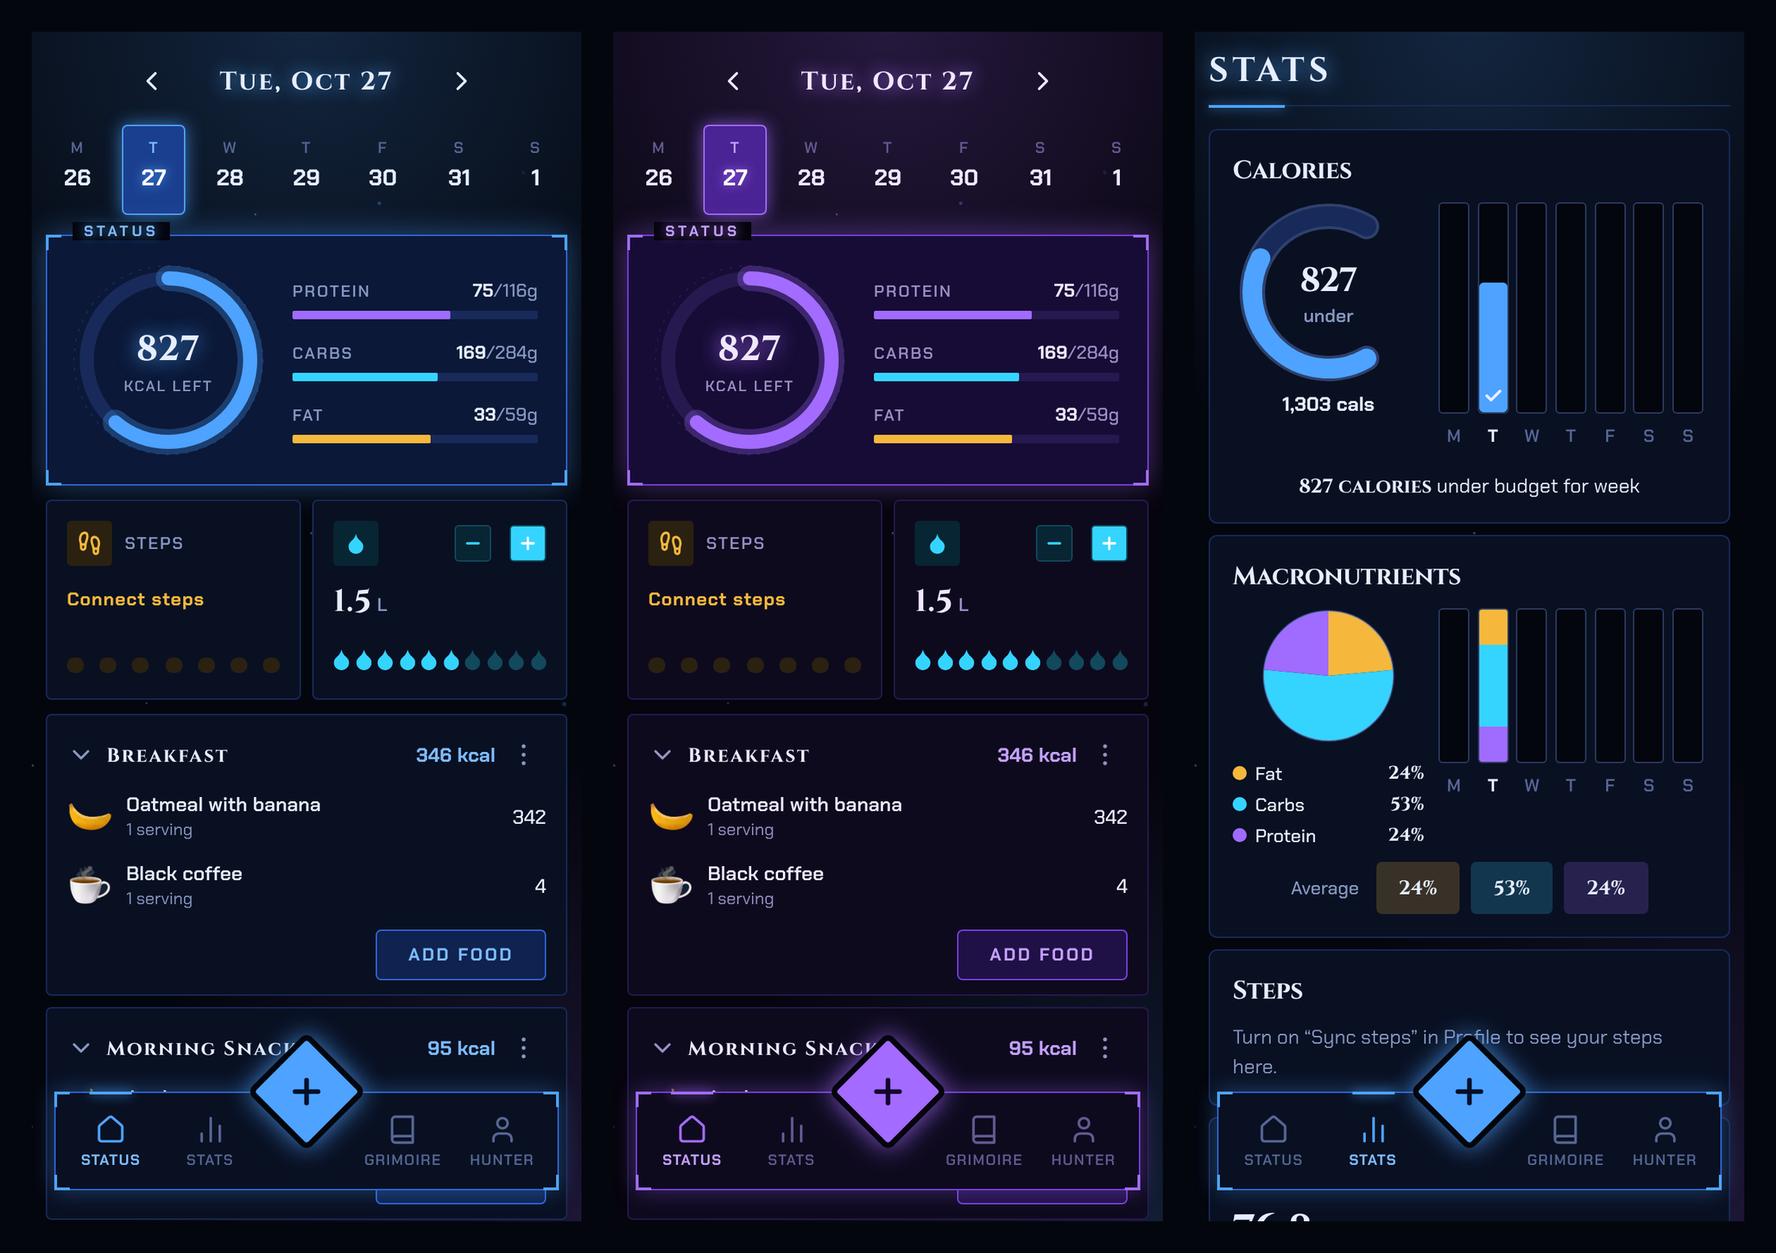
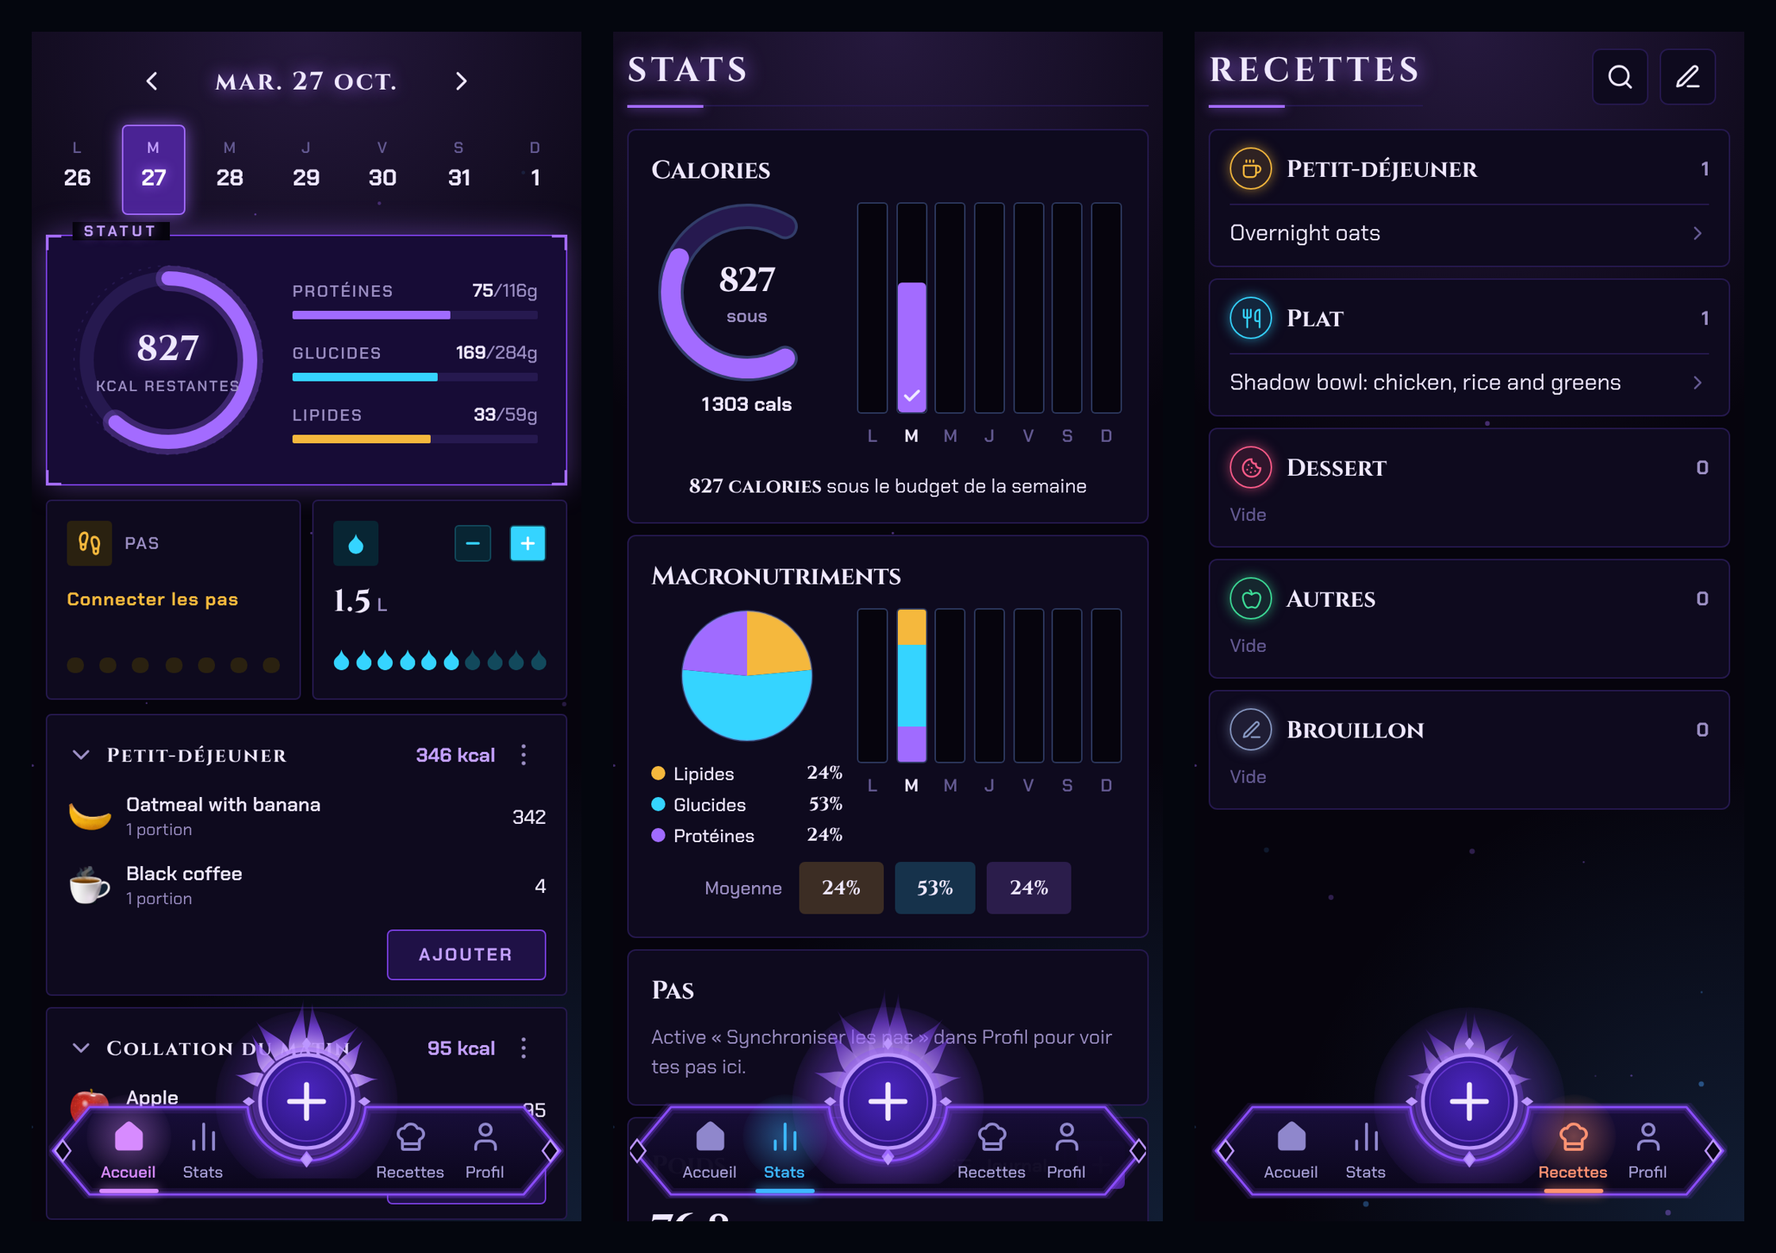
Redesign bottom bar from the design sheet
- Pointed bar with a round notch, violet outline and tip ornaments
- Per-tab accent colours, glow and underline; chef-hat icon for recipes
- Round violet gate button with pulsing aura, flames and pressed state
- Restore Dashboard/Stats/Recipes/Profile labels; Shadow theme by default

Claude-Session: https://claude.ai/code/session_01Ww3m4KYLXCWGYCo8WrB84K

diff --git a/src/ui.tsx b/src/ui.tsx
@@ -1,7 +1,7 @@
 import React, { useEffect, useRef, useState } from 'react';
-import { Keyboard, Platform, Pressable, ScrollView, StyleSheet, useWindowDimensions, View } from 'react-native';
+import { Animated, Easing, Keyboard, Platform, Pressable, ScrollView, StyleSheet, useWindowDimensions, View } from 'react-native';
 import { Text } from './i18n';
-import Svg, { Circle, Defs, Path, RadialGradient, Rect, Stop } from 'react-native-svg';
+import Svg, { Circle, Defs, G, LinearGradient, Path, RadialGradient, Rect, Stop } from 'react-native-svg';
 import { useSafeAreaInsets } from 'react-native-safe-area-context';
 import { alpha, c, f, glow, onTheme, r, textGlow } from './theme';
 import type { MealKey } from './domain';
@@ -34,6 +34,7 @@ export const P = {
   zap: ['M4 14a1 1 0 0 1-.78-1.63l9.9-10.2a.5.5 0 0 1 .86.46l-1.92 6.02A1 1 0 0 0 13 10h7a1 1 0 0 1 .78 1.63l-9.9 10.2a.5.5 0 0 1-.86-.46l1.92-6.02A1 1 0 0 0 11 14z'],
   camera: ['M14.5 4h-5L7 7H4a2 2 0 0 0-2 2v9a2 2 0 0 0 2 2h16a2 2 0 0 0 2-2V9a2 2 0 0 0-2-2h-3l-2.5-3z', 'M12 13m-3 0a3 3 0 1 0 6 0a3 3 0 1 0-6 0'],
   book: ['M4 19.5v-15A2.5 2.5 0 0 1 6.5 2H20v20H6.5a2.5 2.5 0 0 1 0-5H20'],
+  chef: ['M17 21a1 1 0 0 0 1-1v-5.35c0-.457.316-.844.727-1.041a4 4 0 0 0-2.134-7.589 5 5 0 0 0-9.186 0 4 4 0 0 0-2.134 7.588c.411.198.727.585.727 1.041V20a1 1 0 0 0 1 1Z', 'M6 17h12'],
   more: ['M12 5.5v.01', 'M12 12v.01', 'M12 18.5v.01'],
   trash: ['M3 6h18', 'M8 6V4a2 2 0 0 1 2-2h4a2 2 0 0 1 2 2v2', 'M19 6l-1 14a2 2 0 0 1-2 2H8a2 2 0 0 1-2-2L5 6', 'M10 11v6', 'M14 11v6'],
   copy: ['M9 9h10a2 2 0 0 1 2 2v9a2 2 0 0 1-2 2H9a2 2 0 0 1-2-2v-9a2 2 0 0 1 2-2z', 'M5 15H4a2 2 0 0 1-2-2V4a2 2 0 0 1 2-2h9a2 2 0 0 1 2 2v1'],
@@ -162,33 +163,192 @@ export function Title({ children }: { children: string }) {
   );
 }
 
-const LABELS: Record<Tab, string> = { home: 'Status', stats: 'Stats', recipes: 'Grimoire', profile: 'Hunter' };
+/* ---------- Bottom bar ----------
+ * Drawn from the design sheet: a dark bar with pointed ends and a round notch for the "+" gate, violet outline,
+ * one accent colour per tab, and a violet gate button with an aura and licking flames. The bar keeps its own
+ * violet palette in both themes. */
+const NAV = {
+  line: '#8B4DFF',
+  lineSoft: '#6A3BE0',
+  fillTop: '#180E3A',
+  fillBot: '#0A0619',
+  idle: '#8F87CC',
+  idleLabel: '#A9A1D8',
+  btnIn: '#4A25BE',
+  btnOut: '#190A52',
+  ring: '#BC96FF',
+  plus: '#F3E9FF',
+};
+const TAB_STYLE: Record<Tab, { d: string[]; color: string; fill?: boolean }> = {
+  home: { d: P.home, color: '#D78BFF', fill: true },
+  stats: { d: P.stats, color: '#3DB8FF' },
+  recipes: { d: P.chef, color: '#FF9272' },
+  profile: { d: P.user, color: '#2CE6C4' },
+};
+const LABELS: Record<Tab, string> = { home: 'Dashboard', stats: 'Stats', recipes: 'Recipes', profile: 'Profile' };
+
+const BAR_H = 68; // the bar itself
+const OVER = 92; // room above the bar for the gate button, its aura and its flames
+const MARGIN = 12;
+const BTN_R = 33; // gate button radius
+const CANVAS = 140; // square canvas holding the aura / flames, centred on the button
+const CC = { x: 70, y: 86 }; // button centre inside that canvas
+
+function barPath(w: number) {
+  const p = 3, tip = 26, h = BAR_H, cx = w / 2, nr = BTN_R + 9;
+  const dx = Math.sqrt(nr * nr - 16); // the notch is a circle centred 4px above the top edge
+  return `M ${p + tip} ${p} L ${cx - dx} ${p} A ${nr} ${nr} 0 0 0 ${cx + dx} ${p} L ${w - p - tip} ${p} L ${w - p} ${h / 2} L ${w - p - tip} ${h - p} L ${p + tip} ${h - p} L ${p} ${h / 2} Z`;
+}
+const diamond = (x: number, y: number, rx: number, ry: number) => `M ${x} ${y - ry} L ${x + rx} ${y} L ${x} ${y + ry} L ${x - rx} ${y} Z`;
+
+function BarShape({ w }: { w: number }) {
+  const d = barPath(w);
+  return (
+    <Svg width={w} height={BAR_H} style={{ position: 'absolute', left: 0, top: OVER }}>
+      <Defs>
+        <LinearGradient id="barFill" x1="0" y1="0" x2="0" y2="1">
+          <Stop offset="0" stopColor={NAV.fillTop} stopOpacity={1} />
+          <Stop offset="1" stopColor={NAV.fillBot} stopOpacity={1} />
+        </LinearGradient>
+      </Defs>
+      <Path d={d} fill="url(#barFill)" />
+      {/* soft outer glow, then the crisp outline */}
+      <Path d={d} fill="none" stroke={NAV.line} strokeOpacity={0.12} strokeWidth={9} strokeLinejoin="round" />
+      <Path d={d} fill="none" stroke={NAV.line} strokeOpacity={0.28} strokeWidth={4.5} strokeLinejoin="round" />
+      <Path d={d} fill="none" stroke={NAV.line} strokeWidth={1.6} strokeLinejoin="round" />
+      {/* ornaments: the two tips and the foot of the notch */}
+      <Path d={diamond(10, BAR_H / 2, 5.5, 7.5)} fill={NAV.fillBot} stroke={NAV.ring} strokeWidth={1.4} />
+      <Path d={diamond(w - 10, BAR_H / 2, 5.5, 7.5)} fill={NAV.fillBot} stroke={NAV.ring} strokeWidth={1.4} />
+      <Path d={diamond(w / 2, 3 + BTN_R + 9 - 4 - 1, 4.5, 6)} fill={NAV.ring} />
+    </Svg>
+  );
+}
+
+function TabItem({ t, on, onPress }: { t: Tab; on: boolean; onPress: () => void }) {
+  const st = TAB_STYLE[t];
+  const col = on ? st.color : NAV.idle;
+  return (
+    <Pressable style={({ pressed }) => [s.tab, pressed && { opacity: 0.65 }]} onPress={onPress} hitSlop={4} accessibilityRole="button" accessibilityState={{ selected: on }} accessibilityLabel={LABELS[t]}>
+      <View style={s.tabIcon}>
+        {on && (
+          <Svg width={64} height={64} style={{ position: 'absolute', top: -15, left: 0 }} pointerEvents="none">
+            <Defs>
+              <RadialGradient id={`tg_${t}`} cx="32" cy="32" rx="30" ry="30" fx="32" fy="32" gradientUnits="userSpaceOnUse">
+                <Stop offset="0" stopColor={st.color} stopOpacity={0.4} />
+                <Stop offset="1" stopColor={st.color} stopOpacity={0} />
+              </RadialGradient>
+            </Defs>
+            <Circle cx={32} cy={32} r={30} fill={`url(#tg_${t})`} />
+          </Svg>
+        )}
+        <Icon d={st.d} size={24} color={col} fill={st.fill ? col : 'none'} sw={st.fill ? 1.6 : 2.1} />
+      </View>
+      <Text style={[s.tabLabel, { color: on ? st.color : NAV.idleLabel }, on && { fontFamily: f.semi }]}>{LABELS[t]}</Text>
+      <View style={[s.tabBar, { backgroundColor: st.color, opacity: on ? 1 : 0, ...glow(st.color, 8, 0.9) }]} />
+    </Pressable>
+  );
+}
+
+/** One flame tongue, drawn upwards from the origin. */
+const tongue = (w: number, h: number, bend: number) =>
+  `M ${-w} 0 C ${-w * 1.15} ${-h * 0.4} ${-w * 0.1 + bend} ${-h * 0.55} ${w * 0.2 + bend * 1.6} ${-h} C ${w * 0.15 + bend} ${-h * 0.6} ${w * 1.2} ${-h * 0.42} ${w} 0 Z`;
+const FLAMES = [
+  { a: -64, w: 4.5, h: 17, b: -3 }, { a: -46, w: 5, h: 24, b: 4 }, { a: -27, w: 5.5, h: 30, b: -4 }, { a: -9, w: 6, h: 36, b: 5 },
+  { a: 9, w: 6, h: 33, b: -5 }, { a: 27, w: 5.5, h: 27, b: 4 }, { a: 46, w: 5, h: 22, b: -3 }, { a: 65, w: 4.5, h: 16, b: 3 },
+];
+
+/** The violet gate: aura, flames, ring, "+" and the four compass diamonds. Pressed = shrinks and dims. */
+function GateButton({ onPress }: { onPress: () => void }) {
+  const pulse = React.useRef(new Animated.Value(0)).current;
+  const flick = React.useRef(new Animated.Value(0)).current;
+  const press = React.useRef(new Animated.Value(0)).current;
+  useEffect(() => {
+    const mk = (v: Animated.Value, ms: number) => Animated.loop(Animated.sequence([
+      Animated.timing(v, { toValue: 1, duration: ms, easing: Easing.inOut(Easing.sin), useNativeDriver: true }),
+      Animated.timing(v, { toValue: 0, duration: ms, easing: Easing.inOut(Easing.sin), useNativeDriver: true }),
+    ]));
+    const a = mk(pulse, 1700), b = mk(flick, 430);
+    a.start(); b.start();
+    return () => { a.stop(); b.stop(); };
+  }, [pulse, flick]);
+  const to = (v: number) => Animated.timing(press, { toValue: v, duration: 90, easing: Easing.out(Easing.quad), useNativeDriver: true }).start();
+  const auraScale = pulse.interpolate({ inputRange: [0, 1], outputRange: [1, 1.1] });
+  const auraOp = pulse.interpolate({ inputRange: [0, 1], outputRange: [0.7, 1] });
+  const flameScale = flick.interpolate({ inputRange: [0, 1], outputRange: [0.93, 1.07] });
+  const flameOp = Animated.multiply(flick.interpolate({ inputRange: [0, 1], outputRange: [0.72, 1] }), press.interpolate({ inputRange: [0, 1], outputRange: [1, 0.35] }));
+  const btnScale = press.interpolate({ inputRange: [0, 1], outputRange: [1, 0.92] });
+  const btnOp = press.interpolate({ inputRange: [0, 1], outputRange: [1, 0.85] });
+  const layer = { position: 'absolute' as const, left: BTN_R - CC.x, top: BTN_R - CC.y, width: CANVAS, height: CANVAS };
+  return (
+    <Pressable style={s.gate} onPress={onPress} onPressIn={() => to(1)} onPressOut={() => to(0)} accessibilityRole="button" accessibilityLabel="Add">
+      <Animated.View pointerEvents="none" style={[layer, { opacity: auraOp, transform: [{ scale: auraScale }] }]}>
+        <Svg width={CANVAS} height={CANVAS}>
+          <Defs>
+            <RadialGradient id="aura" cx={CC.x} cy={CC.y} rx={50} ry={50} fx={CC.x} fy={CC.y} gradientUnits="userSpaceOnUse">
+              <Stop offset="0.45" stopColor="#8B4DFF" stopOpacity={0.42} />
+              <Stop offset="1" stopColor="#8B4DFF" stopOpacity={0} />
+            </RadialGradient>
+          </Defs>
+          <Circle cx={CC.x} cy={CC.y} r={50} fill="url(#aura)" />
+        </Svg>
+      </Animated.View>
+      <Animated.View pointerEvents="none" style={[layer, { opacity: flameOp, transform: [{ scale: flameScale }] }]}>
+        <Svg width={CANVAS} height={CANVAS}>
+          <Defs>
+            <LinearGradient id="flame" gradientUnits="userSpaceOnUse" x1="0" y1="0" x2="0" y2="-38">
+              <Stop offset="0" stopColor="#D6B4FF" stopOpacity={0.95} />
+              <Stop offset="0.45" stopColor="#8B4DFF" stopOpacity={0.7} />
+              <Stop offset="1" stopColor="#4B1FB0" stopOpacity={0} />
+            </LinearGradient>
+          </Defs>
+          {FLAMES.map((fl, i) => {
+            const r = (fl.a * Math.PI) / 180, base = BTN_R + 1;
+            return (
+              <G key={i} transform={`translate(${CC.x + Math.sin(r) * base} ${CC.y - Math.cos(r) * base}) rotate(${fl.a})`}>
+                <Path d={tongue(fl.w, fl.h, fl.b)} fill="url(#flame)" />
+              </G>
+            );
+          })}
+        </Svg>
+      </Animated.View>
+      <Animated.View pointerEvents="none" style={[layer, { opacity: btnOp, transform: [{ scale: btnScale }] }]}>
+        <Svg width={CANVAS} height={CANVAS}>
+          <Defs>
+            <RadialGradient id="gate" cx={CC.x} cy={CC.y - 6} rx={BTN_R} ry={BTN_R} fx={CC.x} fy={CC.y - 8} gradientUnits="userSpaceOnUse">
+              <Stop offset="0" stopColor={NAV.btnIn} />
+              <Stop offset="1" stopColor={NAV.btnOut} />
+            </RadialGradient>
+          </Defs>
+          <Circle cx={CC.x} cy={CC.y} r={BTN_R + 3} fill="none" stroke={NAV.line} strokeOpacity={0.3} strokeWidth={5} />
+          <Circle cx={CC.x} cy={CC.y} r={BTN_R} fill="url(#gate)" stroke={NAV.ring} strokeWidth={2.6} />
+          <Circle cx={CC.x} cy={CC.y} r={BTN_R - 5} fill="none" stroke={NAV.line} strokeOpacity={0.55} strokeWidth={1} />
+          <Path d={`M ${CC.x - 12} ${CC.y} H ${CC.x + 12} M ${CC.x} ${CC.y - 12} V ${CC.y + 12}`} stroke={NAV.plus} strokeWidth={3.6} strokeLinecap="round" />
+          {[[0, -1], [1, 0], [0, 1], [-1, 0]].map(([ux, uy], i) => (
+            <Path key={i} d={diamond(CC.x + ux * (BTN_R + 8), CC.y + uy * (BTN_R + 8), ux === 0 ? 3.2 : 4.4, uy === 0 ? 3.2 : 4.4)} fill={NAV.ring} />
+          ))}
+        </Svg>
+      </Animated.View>
+    </Pressable>
+  );
+}
 
 export function BottomNav({ tab, onTab, onAdd }: { tab: Tab; onTab: (t: Tab) => void; onAdd: () => void }) {
   const { bottom } = useSafeAreaInsets();
-  const Item = ({ t, d }: { t: Tab; d: string[] }) => {
-    const on = tab === t;
-    return (
-      <Pressable style={s.tab} onPress={() => onTab(t)} hitSlop={4} accessibilityRole="button" accessibilityLabel={LABELS[t]}>
-        {on && <View style={s.tabBar} />}
-        <Icon d={d} size={22} color={on ? c.glow : c.soft} />
-        <Text style={[s.tabLabel, on && { color: c.glowText, fontFamily: f.bold }]}>{LABELS[t]}</Text>
-      </Pressable>
-    );
-  };
+  const { width } = useWindowDimensions();
+  const w = width - MARGIN * 2;
   return (
-    <View style={[s.navWrap, { bottom: Math.max(bottom, 12) + 10 }]} pointerEvents="box-none">
-      <View style={s.nav}>
-        <Item t="home" d={P.home} />
-        <Item t="stats" d={P.stats} />
-        <View style={{ width: 64 }} />
-        <Item t="recipes" d={P.book} />
-        <Item t="profile" d={P.user} />
-        <Corners />
+    <View style={[s.navWrap, { bottom: Math.max(bottom, 12) + 4, left: MARGIN, right: MARGIN }]} pointerEvents="box-none">
+      <BarShape w={w} />
+      <View style={s.tabs} pointerEvents="box-none">
+        <TabItem t="home" on={tab === 'home'} onPress={() => onTab('home')} />
+        <TabItem t="stats" on={tab === 'stats'} onPress={() => onTab('stats')} />
+        <View style={{ width: 2 * (BTN_R + 14) }} />
+        <TabItem t="recipes" on={tab === 'recipes'} onPress={() => onTab('recipes')} />
+        <TabItem t="profile" on={tab === 'profile'} onPress={() => onTab('profile')} />
       </View>
-      <Pressable style={s.scan} onPress={onAdd} accessibilityRole="button" accessibilityLabel="Add">
-        <View style={s.scanIcon}><Icon d={P.plus} size={28} sw={2.8} color={c.onGlow} /></View>
-      </Pressable>
+      <View style={[s.gateSlot, { left: w / 2 - BTN_R }]} pointerEvents="box-none">
+        <GateButton onPress={onAdd} />
+      </View>
     </View>
   );
 }
@@ -198,13 +358,14 @@ const mkStyles = () => StyleSheet.create({
   title: { fontFamily: f.extra, fontSize: 24, color: c.ink, letterSpacing: 3, textTransform: 'uppercase', ...textGlow(c.glow, 14) },
   rule: { height: 1, backgroundColor: c.line, marginTop: 8 },
   ruleBright: { width: 54, height: 2, marginTop: -0.5, backgroundColor: c.glow, ...glow(c.glow, 8, 0.9) },
-  navWrap: { position: 'absolute', left: 16, right: 16 },
-  nav: { ...card, height: 70, borderRadius: r.md, borderColor: c.panelLine, flexDirection: 'row', alignItems: 'center', justifyContent: 'space-around', paddingHorizontal: 4, elevation: 10, ...glow(c.glow, 16, 0.35) },
-  tab: { width: 68, height: 56, alignItems: 'center', justifyContent: 'center', gap: 4 },
-  tabBar: { position: 'absolute', top: -7, width: 30, height: 2, backgroundColor: c.glow, ...glow(c.glow, 8, 1) },
-  tabLabel: { fontFamily: f.semi, fontSize: 10.5, color: c.soft, letterSpacing: 0.8, textTransform: 'uppercase' },
-  scan: { position: 'absolute', alignSelf: 'center', top: -30, width: 60, height: 60, alignItems: 'center', justifyContent: 'center', transform: [{ rotate: '45deg' }], borderRadius: r.lg, backgroundColor: c.glow, borderWidth: 4, borderColor: c.page, elevation: 12, ...glow(c.glow, 18, 0.8) },
-  scanIcon: { transform: [{ rotate: '-45deg' }] },
+  navWrap: { position: 'absolute', height: OVER + BAR_H },
+  tabs: { position: 'absolute', left: 30, right: 30, top: OVER, height: BAR_H, flexDirection: 'row', alignItems: 'center' },
+  tab: { flex: 1, height: BAR_H, alignItems: 'center', justifyContent: 'center', paddingTop: 2 },
+  tabIcon: { width: 64, height: 34, alignItems: 'center', justifyContent: 'center' },
+  tabLabel: { fontFamily: f.medium, fontSize: 11.5, marginTop: 1 },
+  tabBar: { width: 42, height: 3, borderRadius: 2, marginTop: 4 },
+  gateSlot: { position: 'absolute', top: OVER - 1 - BTN_R, width: BTN_R * 2, height: BTN_R * 2 },
+  gate: { width: BTN_R * 2, height: BTN_R * 2, borderRadius: BTN_R },
 });
 export let s = mkStyles();
 onTheme(() => { s = mkStyles(); });

diff --git a/src/store.tsx b/src/store.tsx
@@ -6,7 +6,7 @@ import { DEFAULT_CATS, type Recipe } from './recipes';
 
 type Settings = { fit: boolean; stepSource: string; meals: MealKey[]; showSugar: boolean; showSalt: boolean; showFiber: boolean; showSat: boolean; stepGoal: number; groqKey: string; groqModel: string; iconNames: Record<string, string>; theme: 'light' | 'dark' | 'system'; lang: 'en' | 'fr' }; // stepSource: 'all' or a Health Connect package name
 type State = { profile: Profile | null; entries: Entry[]; water: Record<string, number>; weights: Record<string, number>; foods: Record<string, Food>; recipes: Recipe[]; recipeCats: string[]; settings: Settings };
-const EMPTY: State = { profile: null, entries: [], water: {}, weights: {}, foods: {}, recipes: [], recipeCats: DEFAULT_CATS, settings: { fit: false, stepSource: 'all', meals: ['breakfast', 'snack_am', 'lunch', 'snack_pm', 'dinner', 'snack_eve'], showSugar: false, showSalt: false, showFiber: false, showSat: false, stepGoal: 10000, groqKey: '', groqModel: 'qwen/qwen3.8-27b', iconNames: {}, theme: 'light', lang: /^fr/i.test(Intl.DateTimeFormat().resolvedOptions().locale) ? 'fr' : 'en' } };
+const EMPTY: State = { profile: null, entries: [], water: {}, weights: {}, foods: {}, recipes: [], recipeCats: DEFAULT_CATS, settings: { fit: false, stepSource: 'all', meals: ['breakfast', 'snack_am', 'lunch', 'snack_pm', 'dinner', 'snack_eve'], showSugar: false, showSalt: false, showFiber: false, showSat: false, stepGoal: 10000, groqKey: '', groqModel: 'qwen/qwen3.8-27b', iconNames: {}, theme: 'dark', lang: /^fr/i.test(Intl.DateTimeFormat().resolvedOptions().locale) ? 'fr' : 'en' } };
 const KEY = 'lozzit:v1';
 
 type Store = {

diff --git a/src/screens/Recipes.tsx b/src/screens/Recipes.tsx
@@ -67,7 +67,7 @@ export function Recipes({ request, onConsumed, onPickFood }: { request: RecipeRe
   return (
     <Screen>
       <View style={s.head}>
-        <Title>Grimoire</Title>
+        <Title>Recipes</Title>
         <View style={{ flexDirection: 'row', gap: 8 }}>
           <Pressable onPress={() => { setSearching((v) => !v); setQ(''); }} style={s.gear} hitSlop={8} accessibilityRole="button" accessibilityLabel="Search recipes"><Icon d={searching ? P.x : P.search} size={20} color={c.ink} /></Pressable>
           <Pressable onPress={() => setCats(true)} style={s.gear} hitSlop={8} accessibilityRole="button" accessibilityLabel="Edit categories"><Icon d={P.edit} size={20} color={c.ink} /></Pressable>

diff --git a/src/fr.ts b/src/fr.ts
@@ -2,7 +2,7 @@
 export const FR: Record<string, string> = {
   // navigation
   Dashboard: 'Accueil', Stats: 'Stats', Logs: 'Journal', Profile: 'Profil', Add: 'Ajouter',
-  Status: 'Statut', Grimoire: 'Grimoire', Hunter: 'Chasseur', Monarch: 'Monarque', Shadow: 'Ombre',
+  Status: 'Statut', Monarch: 'Monarque', Shadow: 'Ombre',
   'The System has chosen you': 'Le Système t’a choisi', Awaken: 'S’éveiller',
   // meals
   Breakfast: 'Petit-déjeuner', 'Morning Snacks': 'Collation du matin', Lunch: 'Déjeuner', 'Afternoon Snacks': 'Collation de l’après-midi', Dinner: 'Dîner', 'Evening Snacks': 'Collation du soir',

diff --git a/README.md b/README.md
@@ -6,10 +6,10 @@ First launch walks you through creating a profile; meals, water and profile are 
 ![preview](assets/preview.png)
 
 ## Look & feel
-- **Two dark themes** (Profile > Appearance): *Monarch* (System-window blue, default), *Shadow* (shadow-monarch violet), and *Auto* (Monarch, Shadow when the phone is in dark mode).
+- **Two dark themes** (Profile > Appearance): *Shadow* (shadow-monarch violet, default), *Monarch* (System-window blue), and *Auto* (Monarch, Shadow when the phone is in dark mode).
 - **Type**: Cinzel (engraved serif) for titles and big numbers, Chakra Petch (angular HUD sans) for everything else.
 - **Shapes**: angular panels with glowing borders and corner brackets, a diamond "gate" button in the nav, rune medallions for meals and water, a glowing status ring on the home screen.
-- Tabs are renamed Status / Stats / Grimoire (recipes) / Hunter (profile).
+- **Bottom bar**: dark bar with pointed ends and a round notch, one accent colour per tab (Dashboard, Stats, Recipes with a chef hat, Profile), and a violet gate "+" button with a pulsing aura and flames. It keeps its violet palette in both themes.
 - Everything is driven by `src/theme.ts` (palettes, fonts, glow helpers) and `src/ui.tsx` (shared components).
 - It installs next to the original: its Android package is `com.lozzit.sl`.
 
